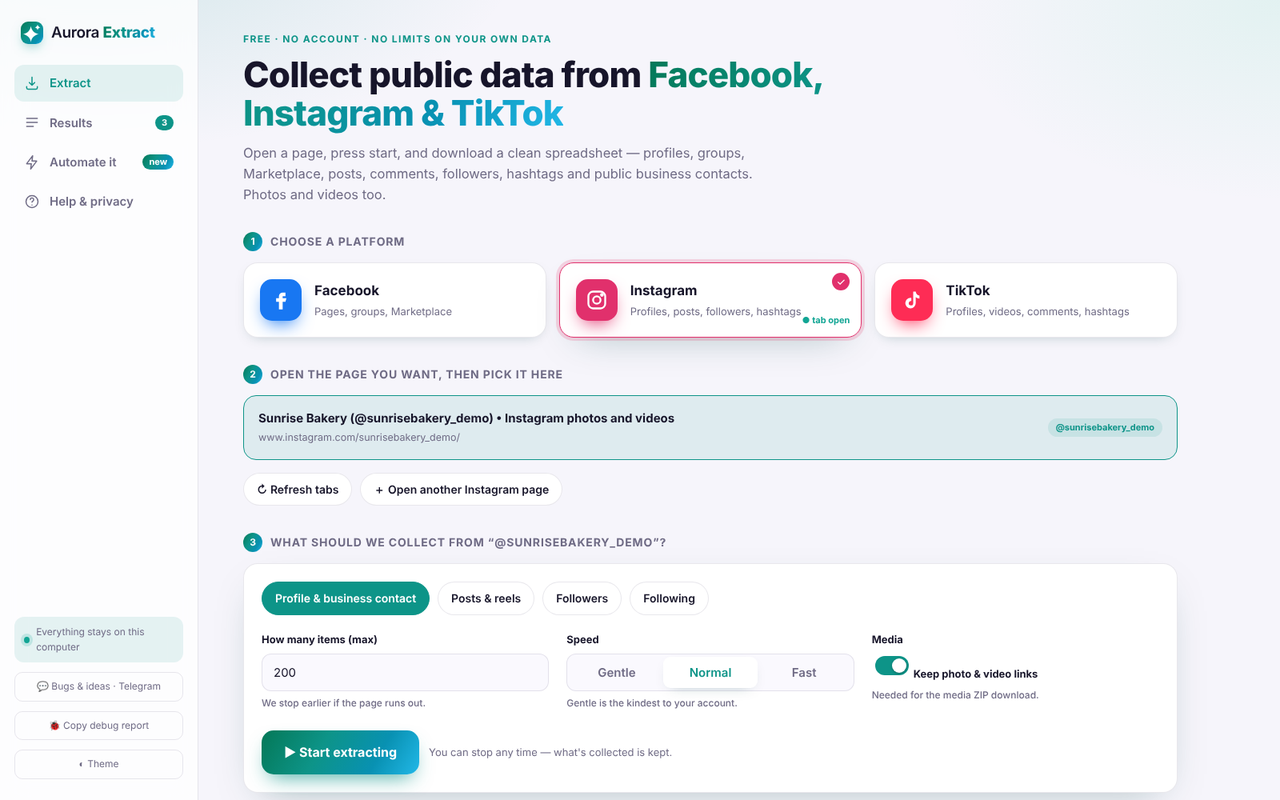
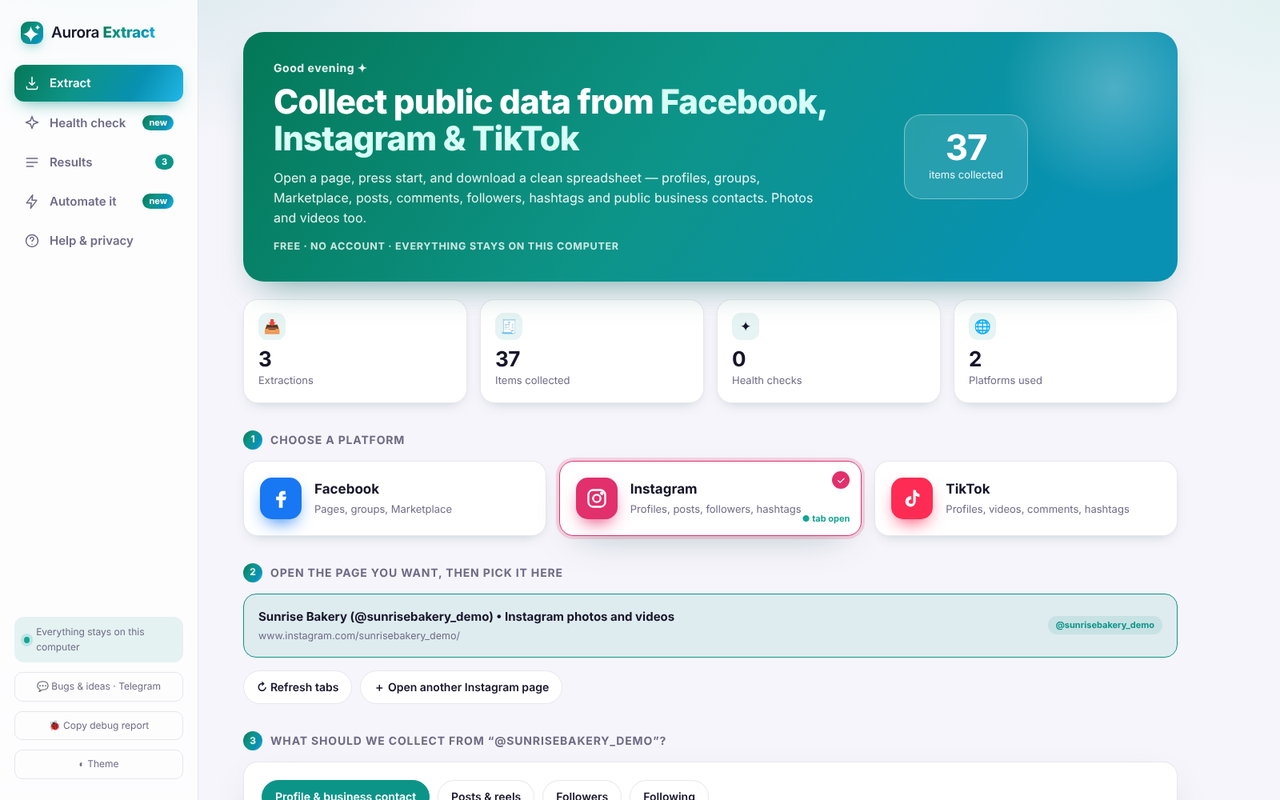
Store pack for 0.4.0: refreshed screenshots with the new look, update steps
Claude-Session: https://claude.ai/code/session_01HsVHP8icT7CgBM1XqRMMJT

diff --git a/store/UPDATE-0.4.0.md b/store/UPDATE-0.4.0.md
@@ -1,0 +1,9 @@
+# Publish Aurora Extract 0.4.0 (update to the live listing, currently 0.2.6)
+
+Permissions did not change since 0.2.6 (storage, unlimitedStorage, declarativeNetRequestWithHostAccess + the same hosts), so this is a normal update: users keep it without a new permission prompt.
+
+1. Developer Dashboard → your item **Aurora Extract** → **Package** → **Upload new package** → choose `1-UPLOAD-THIS/aurora-extract-0.4.0.zip`.
+2. **Store listing** tab: replace the 6 screenshots with the files in `2-IMAGES` (new look), and the small and marquee promo tiles if you want. Paste the description from `LISTING.md` (it now mentions the Health check).
+3. **Privacy** tab: nothing changes (same single purpose, same permissions). Re-save if it asks.
+4. **Submit for review.** Updates are usually reviewed faster than a first submission.
+5. When it is approved, the website already points to the listing.
